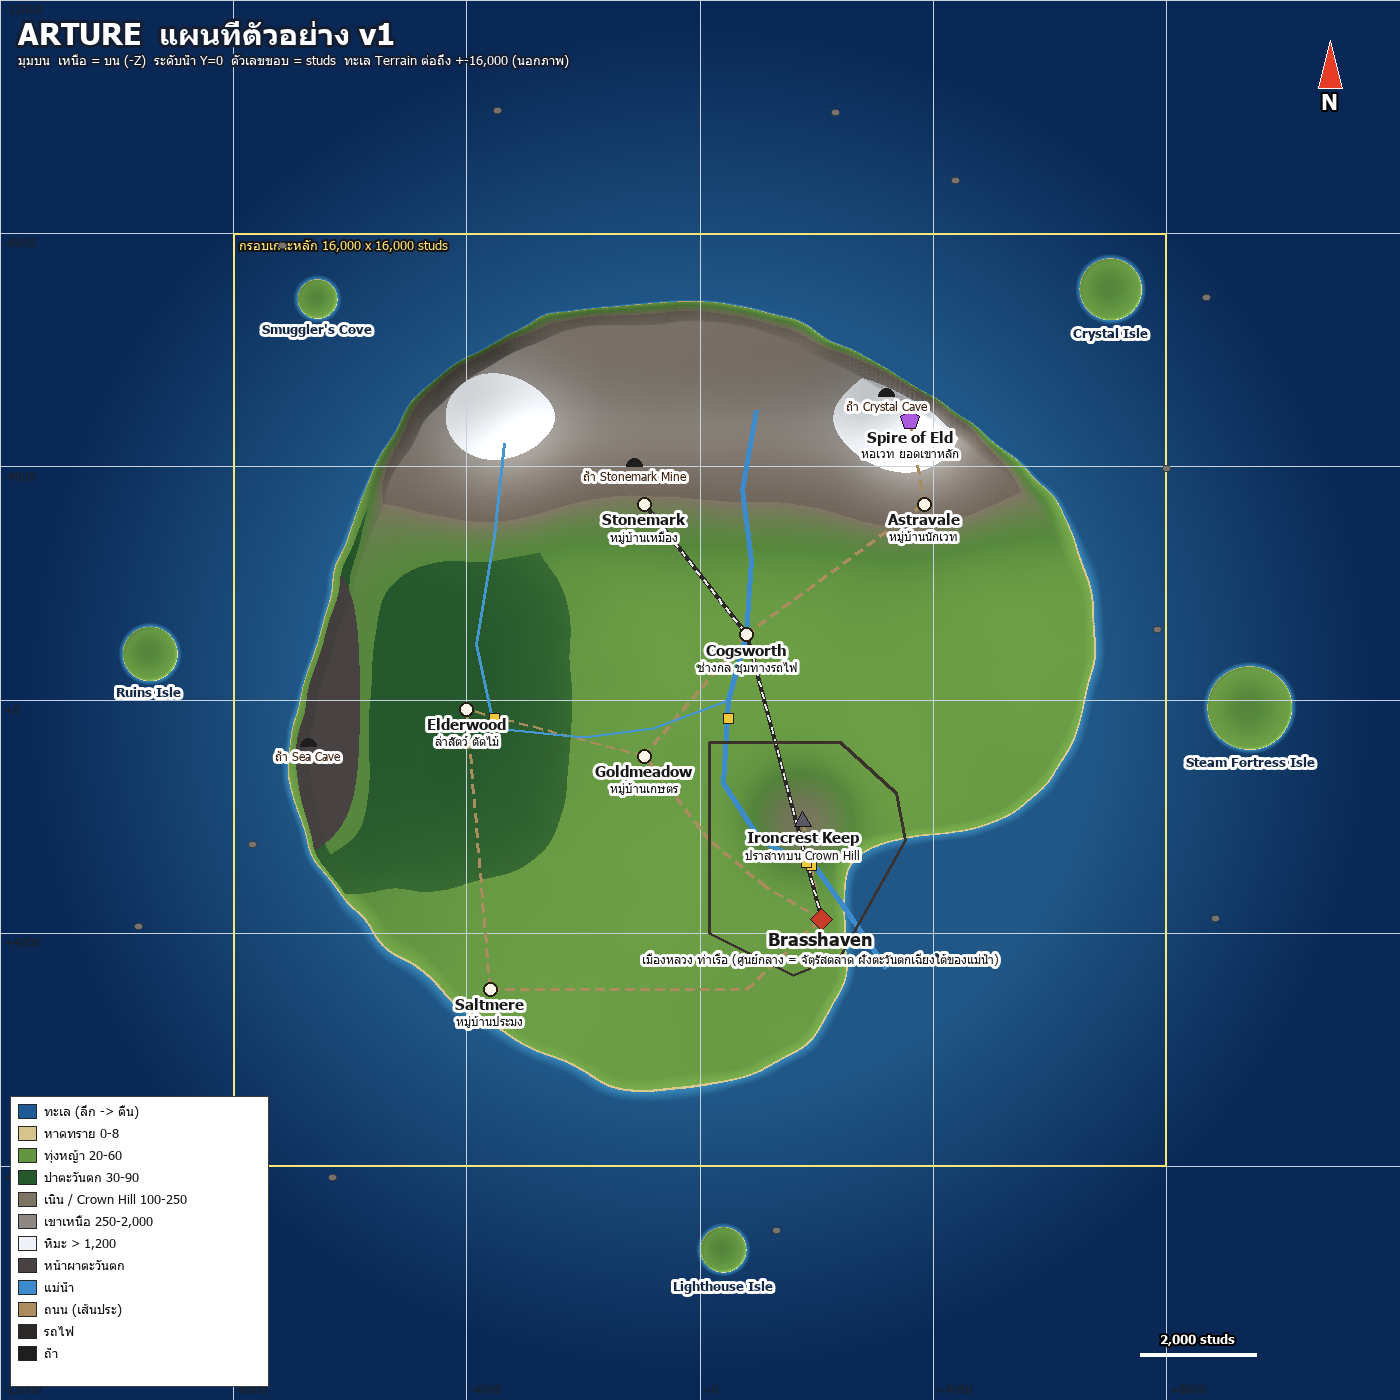
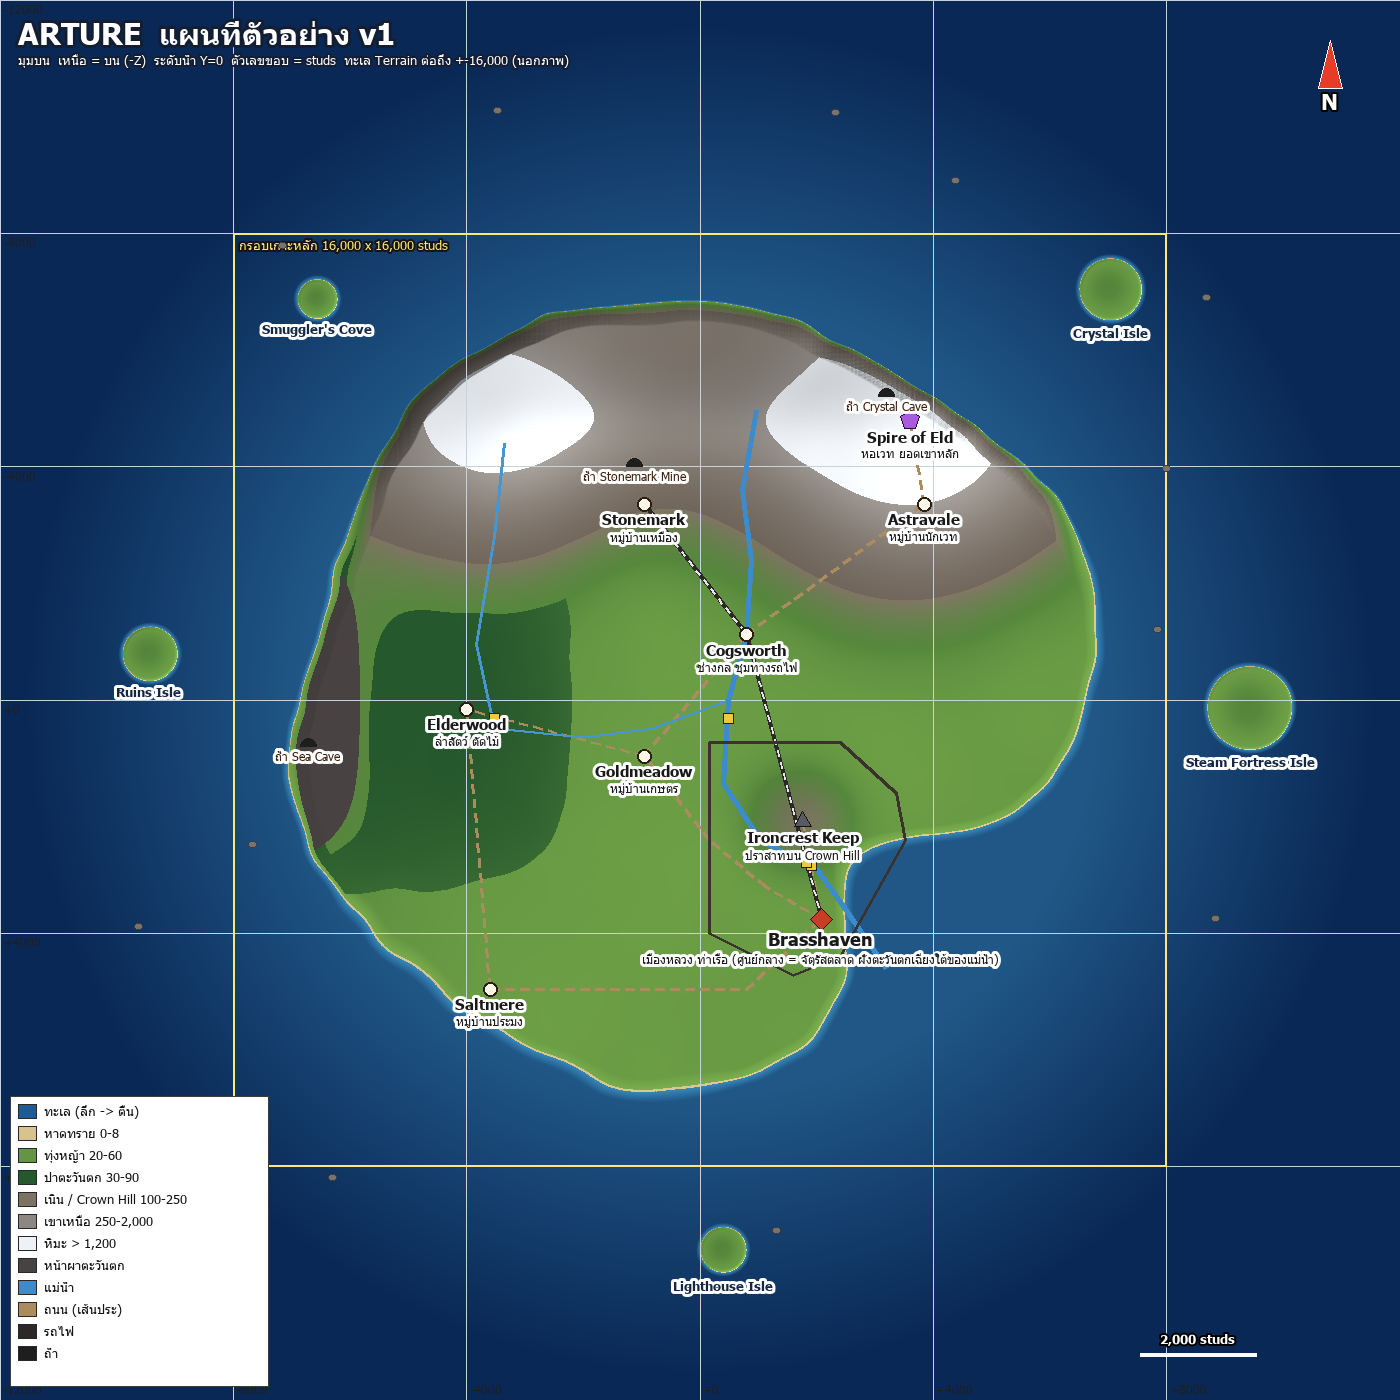
terrain: wider mountain bases (peak_sigma in JSON); setup streaming fix; check_terrain

diff --git a/docs/design/render-map.py b/docs/design/render-map.py
@@ -25,11 +25,11 @@ g = lambda c, s: np.exp(-((X - c[0]) ** 2 + (Z - c[1]) ** 2) / (2 * s * s))
 plains = 20 + 40 * n2
 fm = sig((L["forest"]["x_max"] - X) / 0.08) * sig((L["forest"]["z_abs_max"] - np.abs(Z)) / 0.08) * (0.55 + 0.45 * n3)
 mb = sig((L["mountain_band_z"] - Z) / 0.06)
-pk = L["peaks"]; PH = L["peak_height_studs"]; SNOW = L["snow_line_studs"]
+pk = L["peaks"]; PH = L["peak_height_studs"]; SNOW = L["snow_line_studs"]; PS = L["peak_sigma"]
 ridge = np.exp(-(Z + 0.60) ** 2 / (2 * 0.07 ** 2)) * sig((0.45 - np.abs(X)) / 0.05)
 cl = L["cliffs"]
 cliffs = sig((r - cl["r_min"]) / 0.05) * np.exp(-(np.abs(ang) - cl["center_deg"]) ** 2 / (2 * cl["sigma_deg"] ** 2)) * 110
-H_land = (plains + fm * 30 + mb * (250 + 330 * n3) + g(pk["main_NE"], .10) * (PH["main_NE"] - 450) + g(pk["second_NW"], .10) * (PH["second_NW"] - 450)
+H_land = (plains + fm * 30 + mb * (250 + 330 * n3) + g(pk["main_NE"], PS["main_NE"]) * (PH["main_NE"] - 450) + g(pk["second_NW"], PS["second_NW"]) * (PH["second_NW"] - 450)
           + ridge * 380 + g(L["crown_hill"], .07) * 200 + cliffs)
 sea = -40 - 40 * np.clip((r - 0.85) / 0.6, 0, 1)
 H = land * H_land + (1 - land) * sea
